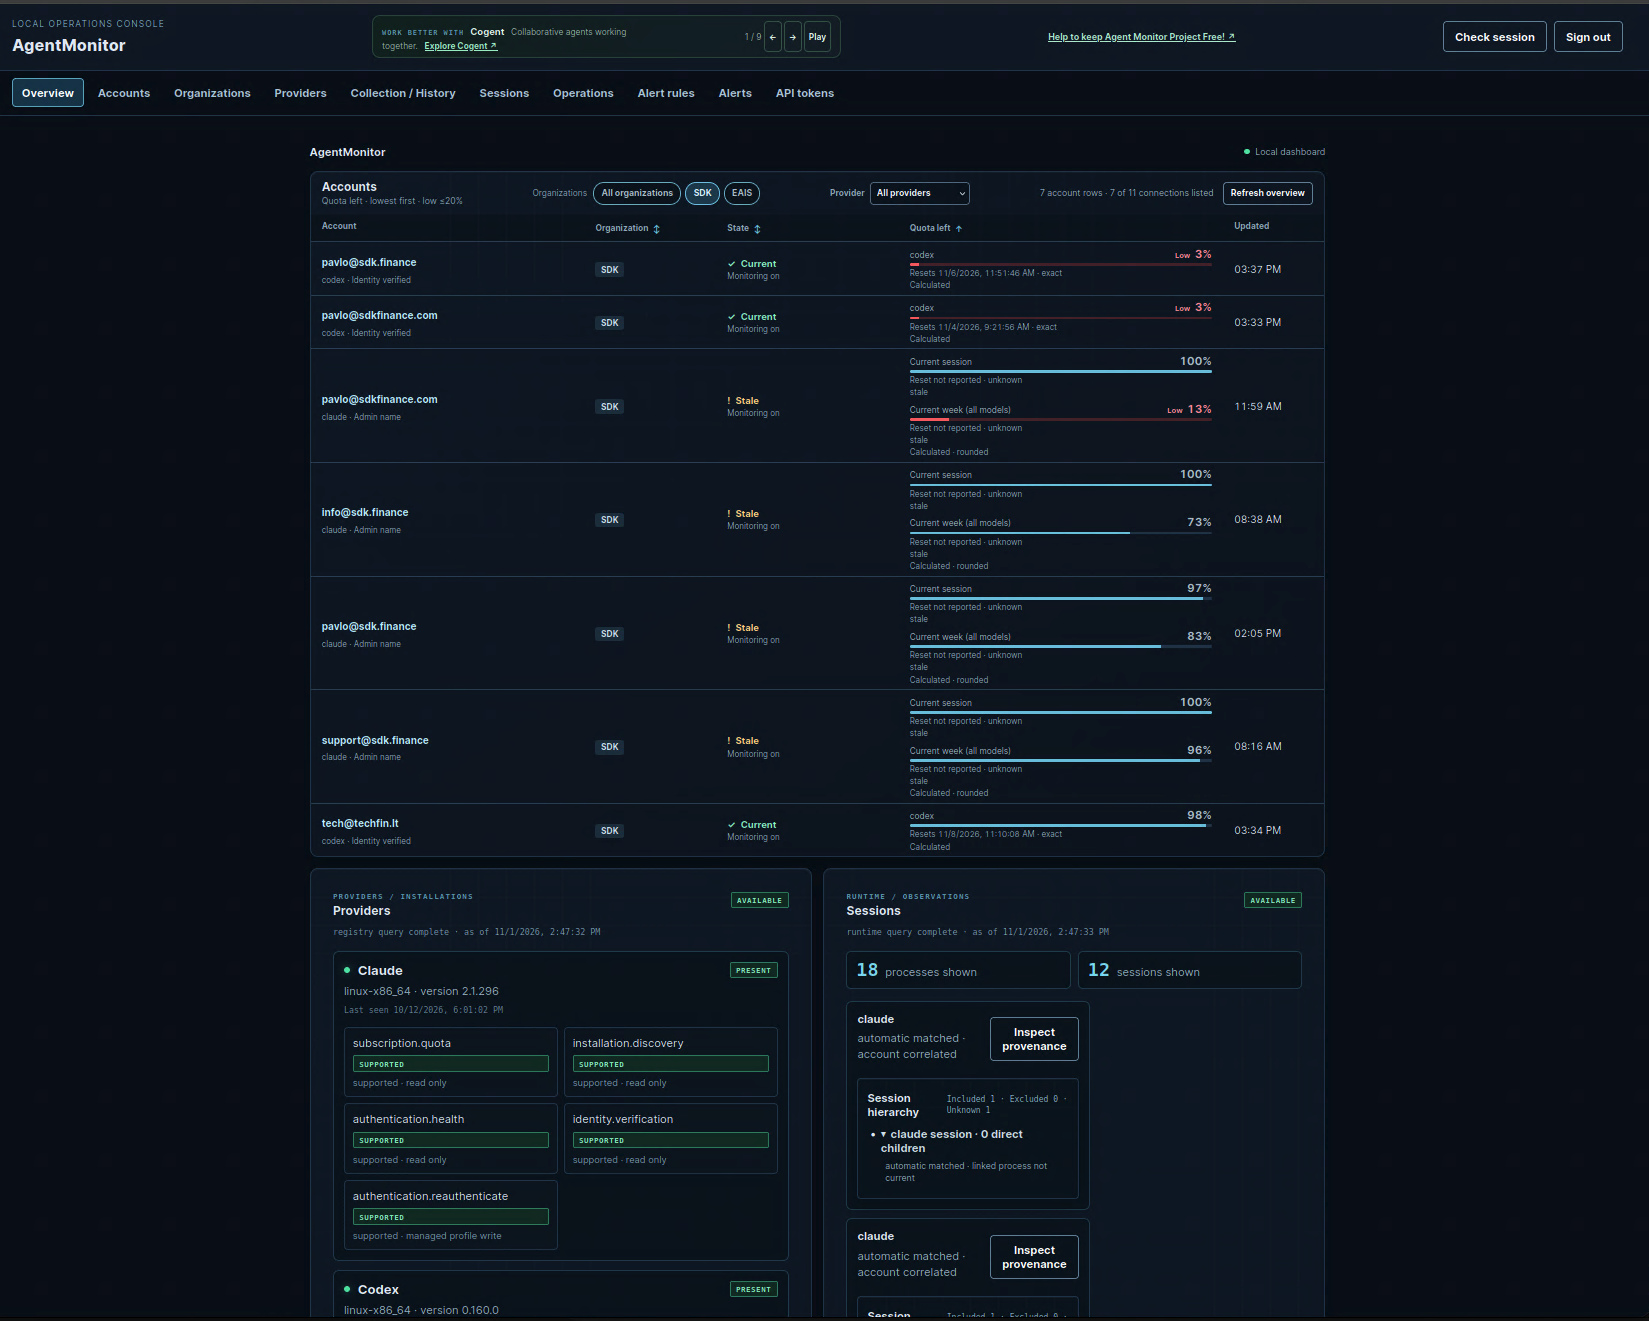
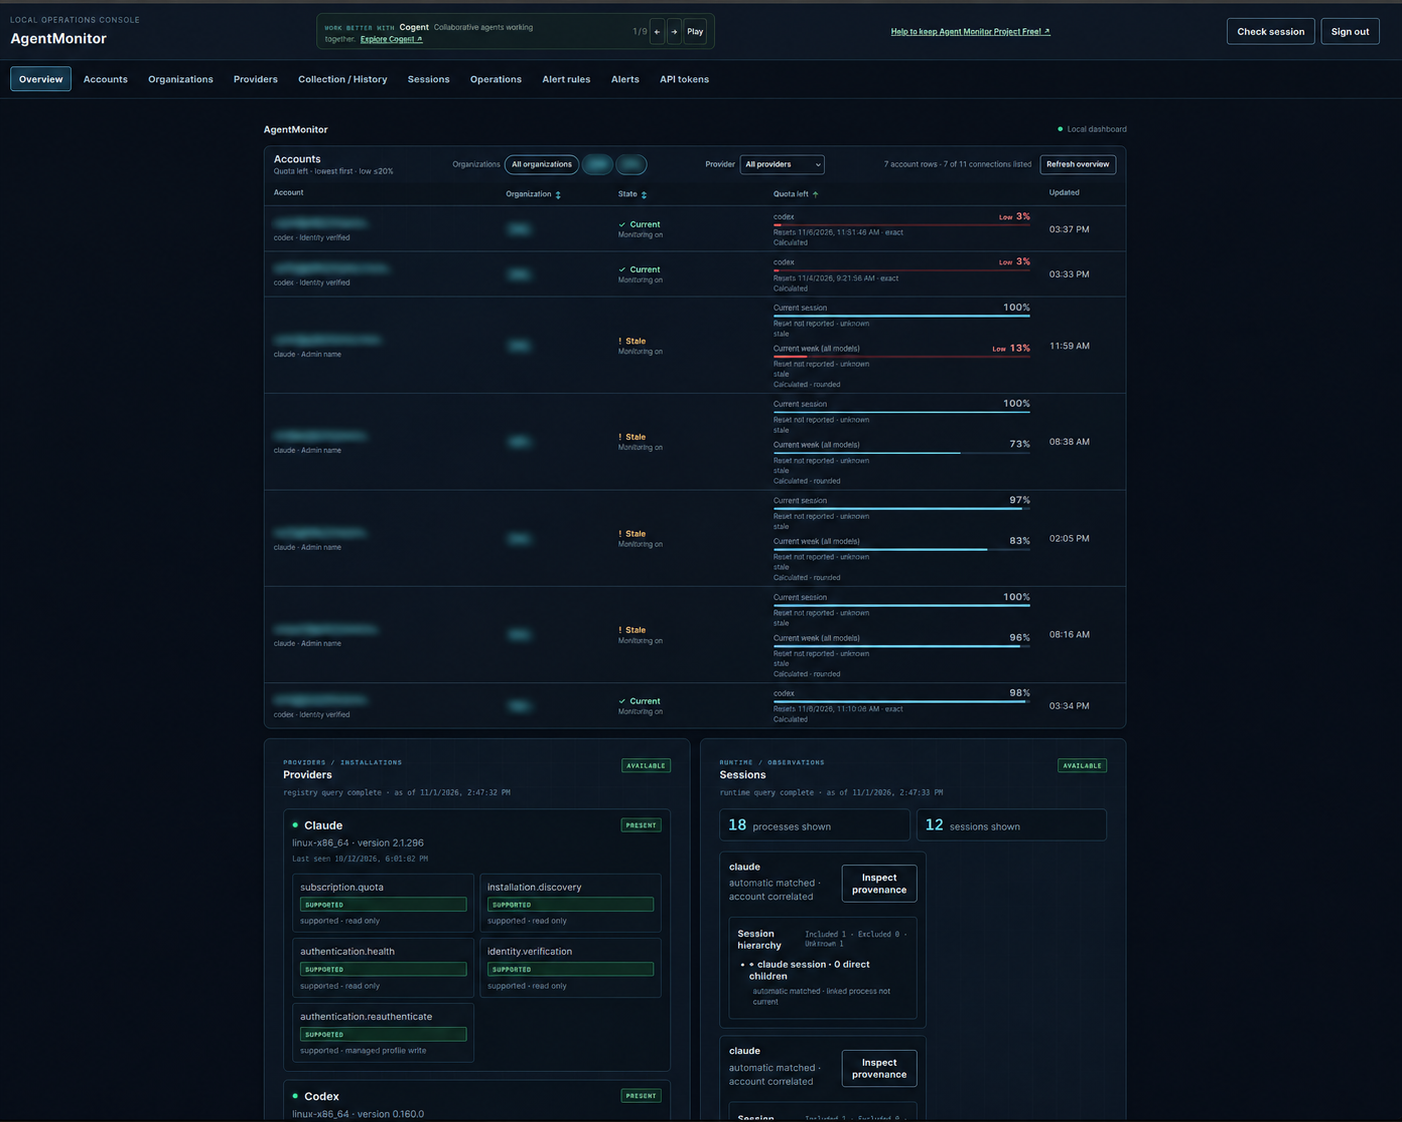
Blur account identities and organization names in dashboard demo

diff --git a/README.md b/README.md
@@ -9,7 +9,8 @@ running agents without interrupting them.
 
 ![AgentMonitor dashboard overview](docs/images/dashboard-demo.png)
 
-The screenshot is a point-in-time example of the dashboard.
+The screenshot is a point-in-time example of the dashboard, with account emails
+and organization names blurred for privacy.
 
 ## Project status
 
